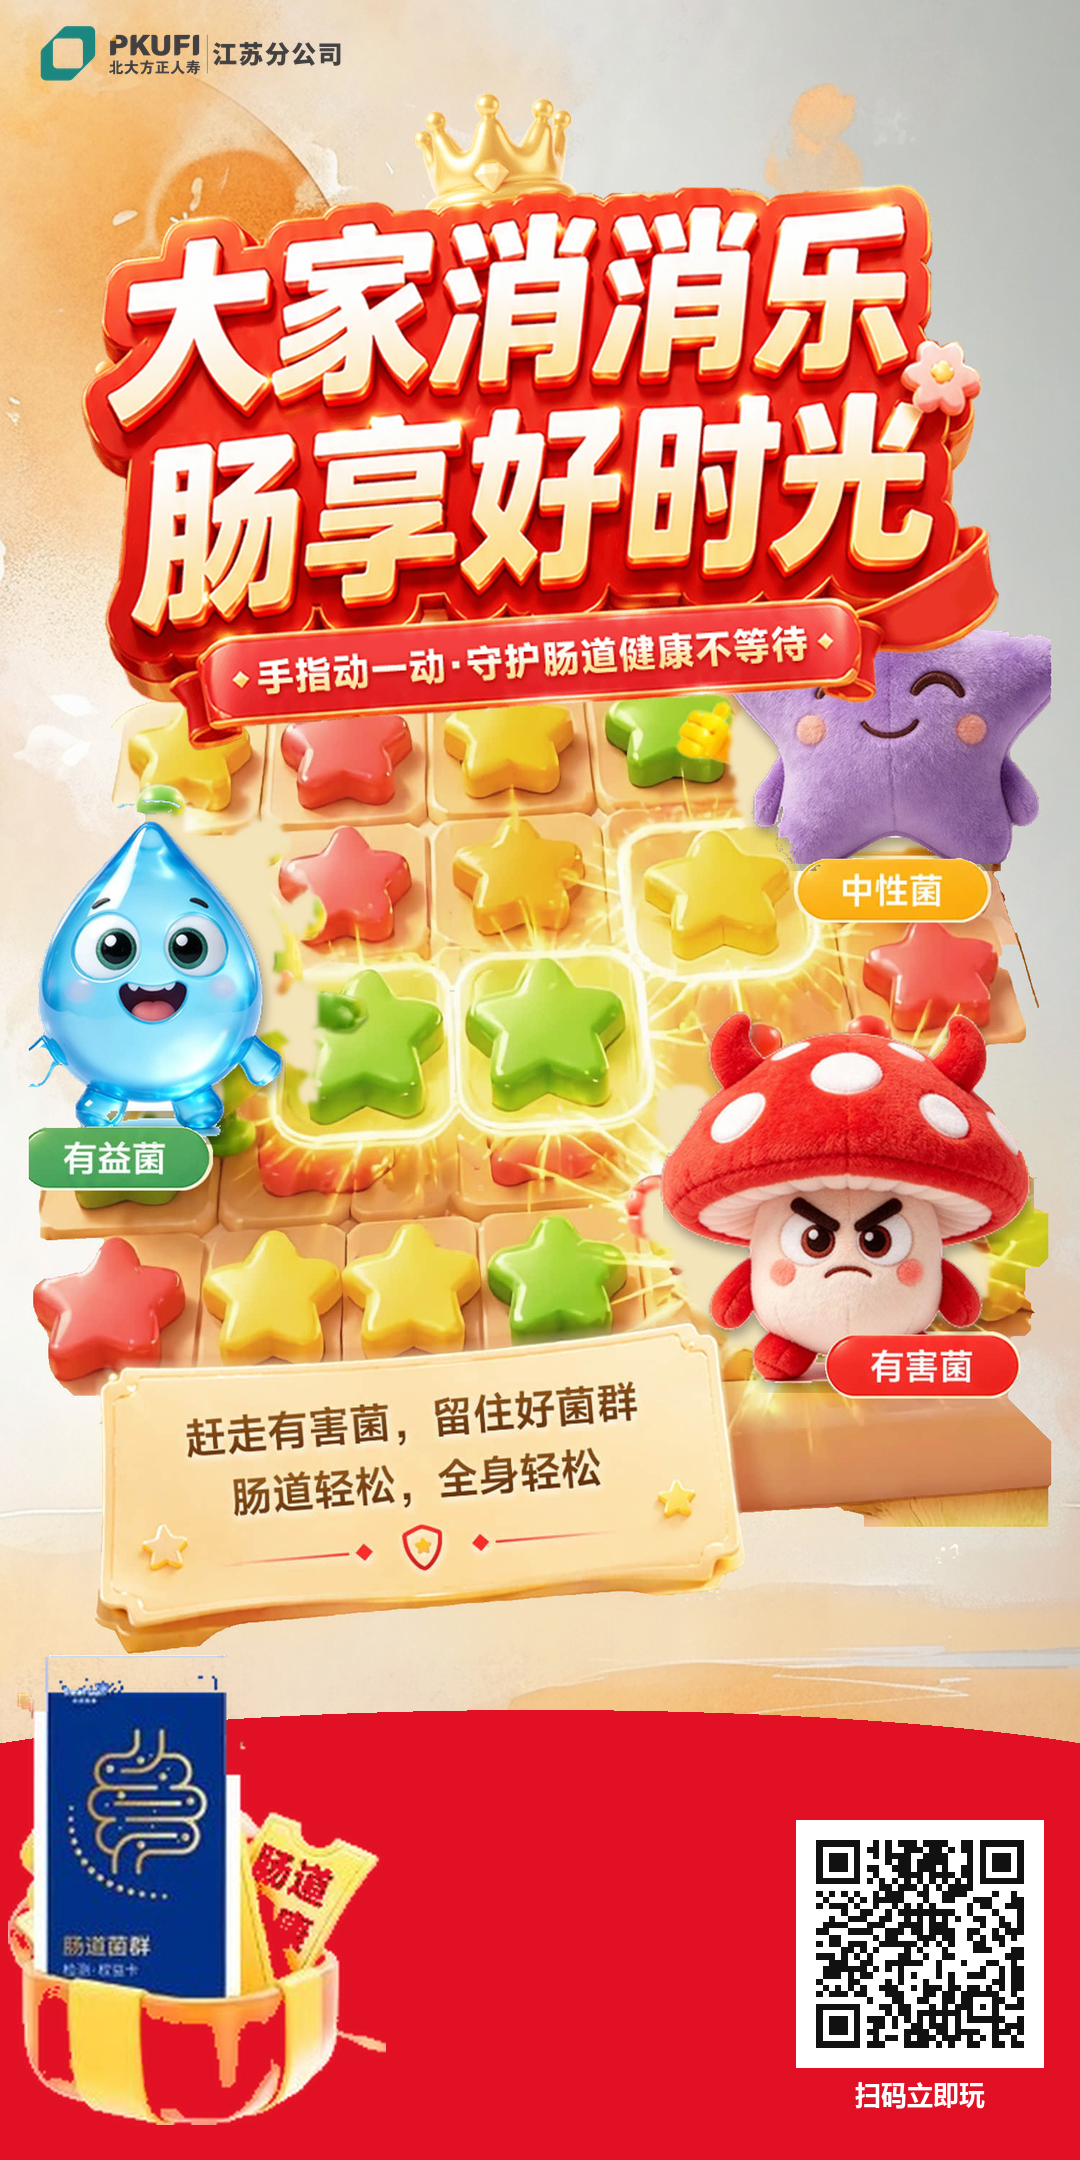
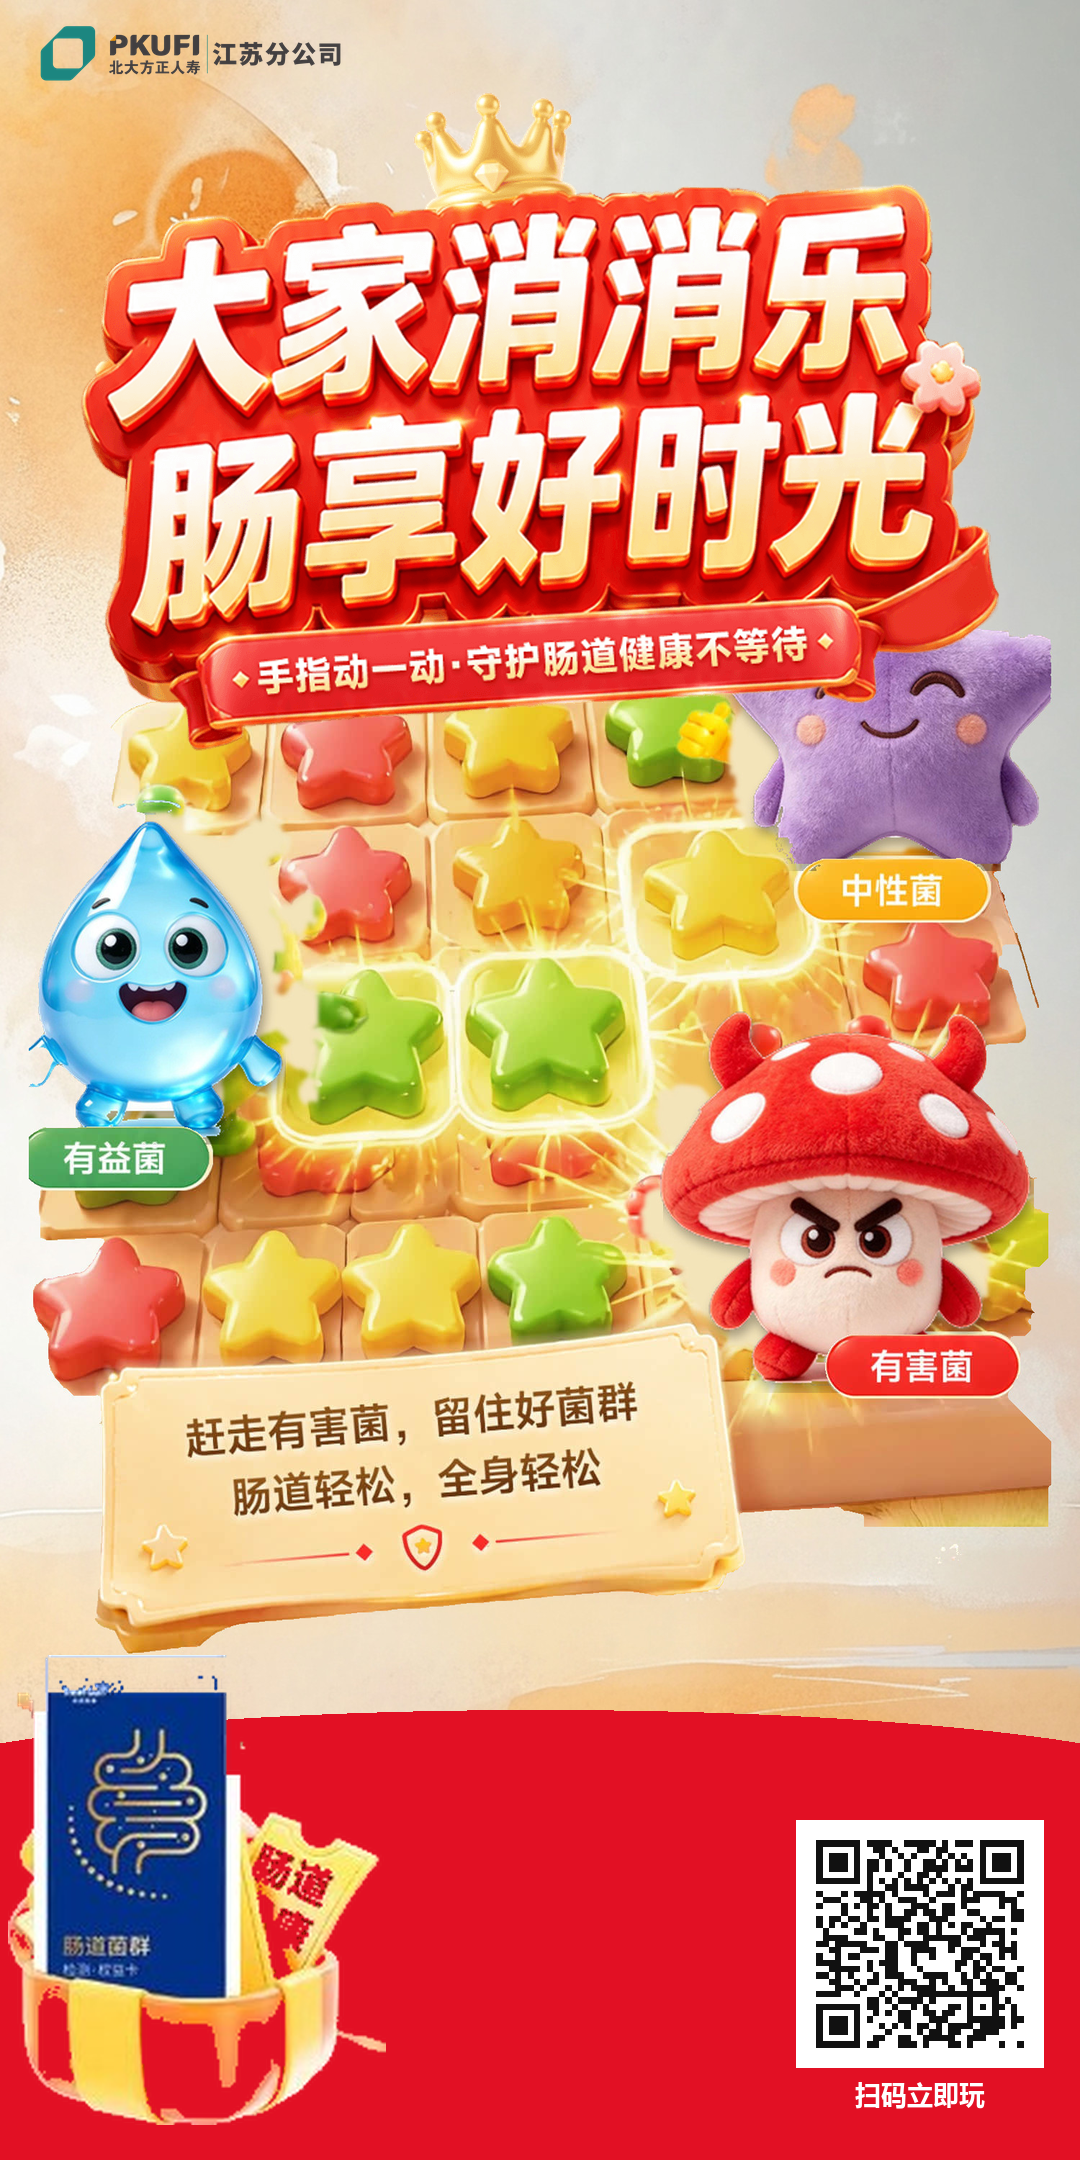
Point the poster QR at a fresh page address so WeChat loads the updated game.

Changed region(s): [[0.7639, 0.8375, 0.9472, 0.9616]]

diff --git a/index.html b/index.html
@@ -7,7 +7,7 @@
   <meta http-equiv="Expires" content="0" />
   <meta name="viewport" content="width=device-width, user-scalable=no, initial-scale=1, maximum-scale=1, viewport-fit=cover" />
   <title>大家消消乐 肠享好时光</title>
-  <link rel="stylesheet" href="css/game.css?v=14" />
+  <link rel="stylesheet" href="css/game.css?v=15" />
 </head>
 <body>
   <div class="phone" id="phone">
@@ -59,8 +59,8 @@
     <img class="logo" src="image/logo.png" alt="北大方正人寿江苏分公司" />
     <div id="result-title" class="result-title win"></div>
     <div class="score-card">
-      <div class="score-line"><img src="assets/static/image/bad.e7701dce.png?v=14" alt="" /><span>成功消除有害菌</span><b id="result-bad">0个</b></div>
-      <div class="score-line"><img src="assets/static/image/good2.0b5e797e.png?v=14" alt="" /><span>成功守护有益菌</span><b id="result-good">0个</b></div>
+      <div class="score-line"><img src="assets/static/image/bad.e7701dce.png?v=15" alt="" /><span>成功消除有害菌</span><b id="result-bad">0个</b></div>
+      <div class="score-line"><img src="assets/static/image/good2.0b5e797e.png?v=15" alt="" /><span>成功守护有益菌</span><b id="result-good">0个</b></div>
       <div class="score-line"><span>得分</span><b id="result-score">0</b></div>
       <div id="result-rank-block" class="rank-card">
         <img id="result-rank-img" class="badge" alt="" />
@@ -83,7 +83,7 @@
 
   <section id="howto" class="overlay howto" hidden>
     <div class="howto-card">
-      <img class="rules" src="assets/static/image/game_rules.b7cd129a.png?v=14" alt="游戏规则" />
+      <img class="rules" src="assets/static/image/game_rules.b7cd129a.png?v=15" alt="游戏规则" />
       <img class="finger" src="assets/static/image/finger.2957c077.png" alt="" />
     </div>
     <button type="button" data-action="howto-go"><img class="howto-go" src="assets/static/image/start.766e35a5.png" alt="开始" /></button>
@@ -122,7 +122,7 @@
 
   <div id="toast" class="toast" hidden></div>
   </div>
-  <script src="js/engine.js?v=14"></script>
-  <script src="js/app.js?v=14"></script>
+  <script src="js/engine.js?v=15"></script>
+  <script src="js/app.js?v=15"></script>
 </body>
 </html>

diff --git a/js/app.js b/js/app.js
@@ -3,11 +3,11 @@ const MEDIA = "assets/static/media/";
 const LOGO = "image/logo.png";
 
 const TILES = {
-  1: IMG + "bad.e7701dce.png?v=14",
-  2: IMG + "good1.bec550f3.png?v=14",
-  3: IMG + "good2.0b5e797e.png?v=14",
-  4: IMG + "grape.ec727821.png?v=14",
-  5: IMG + "carrot.85a5d31e.png?v=14",
+  1: IMG + "bad.e7701dce.png?v=15",
+  2: IMG + "good1.bec550f3.png?v=15",
+  3: IMG + "good2.0b5e797e.png?v=15",
+  4: IMG + "grape.ec727821.png?v=15",
+  5: IMG + "carrot.85a5d31e.png?v=15",
 };
 
 const ROUND_TITLE = [
@@ -224,7 +224,7 @@ function renderRank() {
 
 function renderModal() {
   const map = {
-    rules: { title: IMG + "tab_rules.2280077b.png", body: IMG + "rules.d30d95b1.png?v=14", frame: IMG + "bg_modal2.f6c41725.png" },
+    rules: { title: IMG + "tab_rules.2280077b.png", body: IMG + "rules.d30d95b1.png?v=15", frame: IMG + "bg_modal2.f6c41725.png" },
     prize: { title: IMG + "tab_prize.50b50917.png", body: IMG + "tab_prize.50b50917.png", frame: IMG + "bg_modal1.90a830b4.png" },
     protocol: { title: IMG + "title_rules.d6d6c7d2.png", body: IMG + "protocol.e3577188.png", frame: IMG + "bg_modal3.3d7bc8c7.png" },
   };

diff --git a/css/game.css b/css/game.css
@@ -33,8 +33,8 @@ button, img { user-select: none; }
 button { border: 0; padding: 0; background: transparent; cursor: pointer; }
 .screen, .overlay { position: absolute; inset: 0; }
 .screen { min-height: 100%; background-position: center top; background-size: cover; background-repeat: no-repeat; }
-#home { background-image: url("../assets/static/image/bg-home.jpg?v=14"); }
-#game { background-image: url("../assets/static/image/bg-game.jpg?v=14"); overflow: auto; }
+#home { background-image: url("../assets/static/image/bg-home.jpg?v=15"); }
+#game { background-image: url("../assets/static/image/bg-game.jpg?v=15"); overflow: auto; }
 #rank { background-image: url("../assets/static/image/bg.22ba2e11.jpg"); overflow: auto; }
 #poster { background-image: url("../assets/static/image/bg.9fb073bd.jpg"); overflow: auto; }
 #loading {

diff --git a/make_poster.py b/make_poster.py
@@ -5,7 +5,7 @@ import qrcode
 from PIL import Image, ImageDraw, ImageFont
 
 ROOT = os.path.dirname(os.path.abspath(__file__))
-PLAY_URL = os.environ.get("PLAY_URL", "https://hua691.github.io/gut-match3-play/?v=14")
+PLAY_URL = os.environ.get("PLAY_URL", "https://hua691.github.io/gut-match3-play/?v=15")
 OUT = os.path.join(ROOT, "海报.png")
 
 W, H = 1080, 2160
